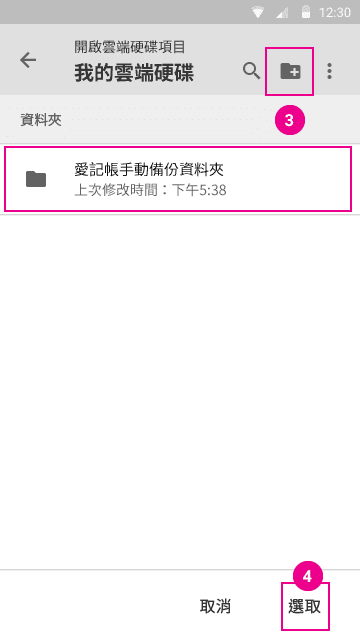
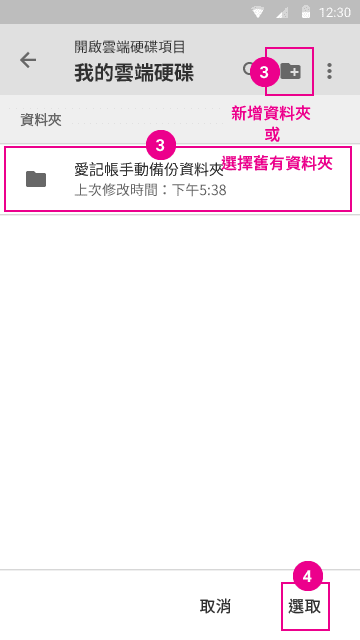
update

Changed region(s): [[0.6111, 0.0938, 0.9167, 0.2812], [0.3972, 0.1875, 0.4889, 0.25], [0.275, 0.25, 0.3056, 0.2812]]

diff --git a/FAQ-b01.html b/FAQ-b01.html
@@ -72,7 +72,7 @@
           <section class="show"> 
             <h1 class="title">資料庫備份/還原</h1>
             <p>「備份」會儲存您目前完整的紀錄狀態，包含您新增調整的分類/帳戶/標籤/樣板...等，「還原」為還原至您備份當時的資料狀態。<br>如您要更換手機建議您使用"資料庫備份/還原"來「備份」「還原」您目前的資料。</p>
-            <h2 class="left-solid">備份 </h2>
+            <h2 class="left-solid">備份/還原 </h2>
             <div class="pics pics-2"><img src="img/faq/b01-01.png"><img src="img/faq/b01-02.png">
               <div class="p-wrap"> 
                 <p>1. 選擇您要備份至哪個 Google 帳戶</p>
@@ -88,12 +88,24 @@
                 <P>7. 點擊「X」可刪除已不需要的備份檔案。</P>
               </div>
             </div>
-            <h2 class="left-solid">還原 </h2>
-            <div class="pics">
-              <ul class="number-list">
-                <li>如為同一隻手機資料還原，系統預設會帶您最後選擇的資料夾，點擊檔案名稱後即可還原(參考備份步驟 6)。</li>
-                <li>如為更換新手機，請先至舊手機完成備份資料動作，再至新手機選取您當時備份的「Google 帳戶」與「資料夾」，將檔案帶回頁面後，再點擊檔案還原。<br></li><em>註：僅能讀取由愛記帳產出至雲端的資料庫檔案。</em>
-              </ul>
+            <h2 class="left-solid">更換手機資料庫還原 </h2>
+            <p class="red">請先至舊手機完成備份(上述1~5步驟)</p>
+            <div class="pics"><img src="img/faq/b01-07.png"><img src="img/faq/b01-01.png">
+              <div class="p-wrap"> 
+                <p>1. 安裝完APP後，選擇資料庫備份/還原，並選擇當時備份的 Google 帳戶</p>
+              </div>
+            </div>
+            <div class="pics pics-2">  <img src="img/faq/b01-02.png"><img src="img/faq/b01-05.png">
+              <div class="p-wrap">
+                <p>2~4. 選擇當時備份儲存的資料夾</p>
+                <p class="red">註：僅能讀取由愛記帳APP產出至雲端的資料庫檔案。</p>
+              </div>
+            </div>
+            <div class="pics"> <img src="img/faq/b01-06.png">
+              <div class="p-wrap">
+                <p>5. 點擊檔案，即可還原至當時備份的狀態。</p>
+                <p>如您有使用樣板的通知功能，請再次確認您的 ”自啟動管理 ” 是否設定愛記帳為”允許”。</p>
+              </div>
             </div>
             <div class="center"><a class="btn prev" href="FAQ-a04.html">上一頁</a><a class="btn next" href="FAQ-b02.html">下一頁</a></div>
           </section>
